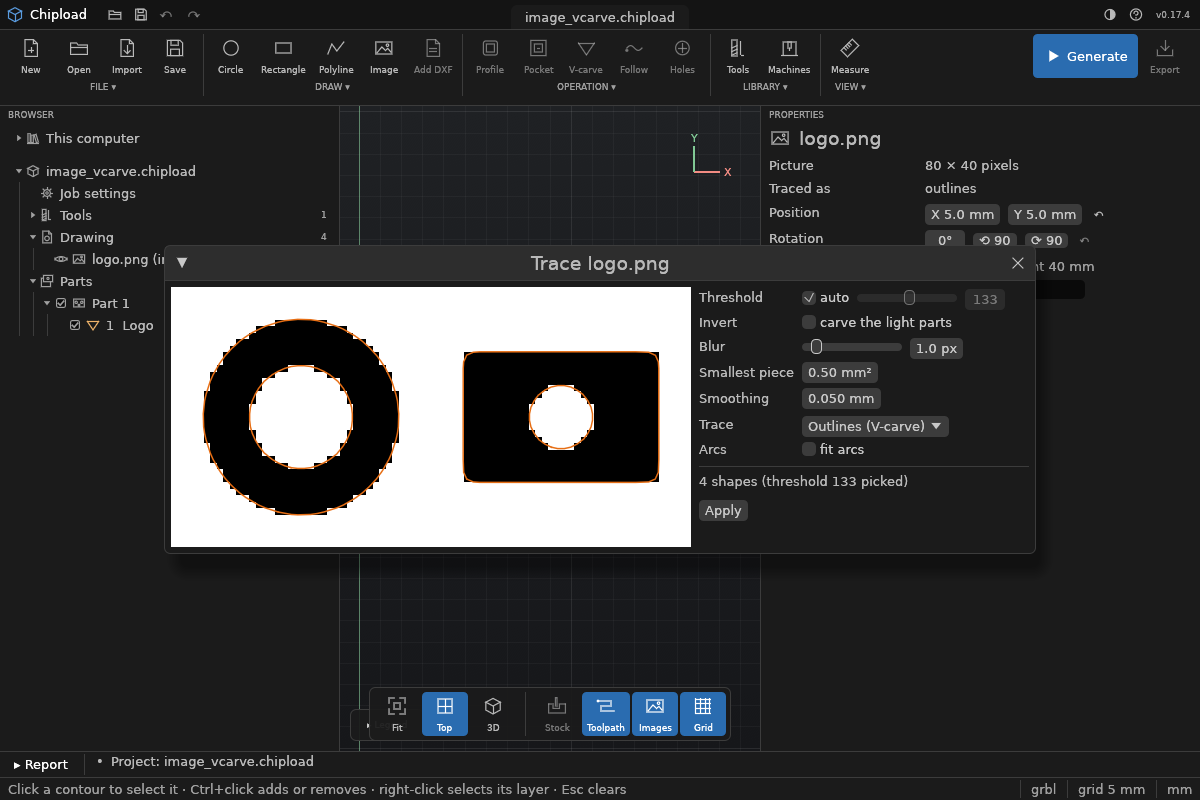
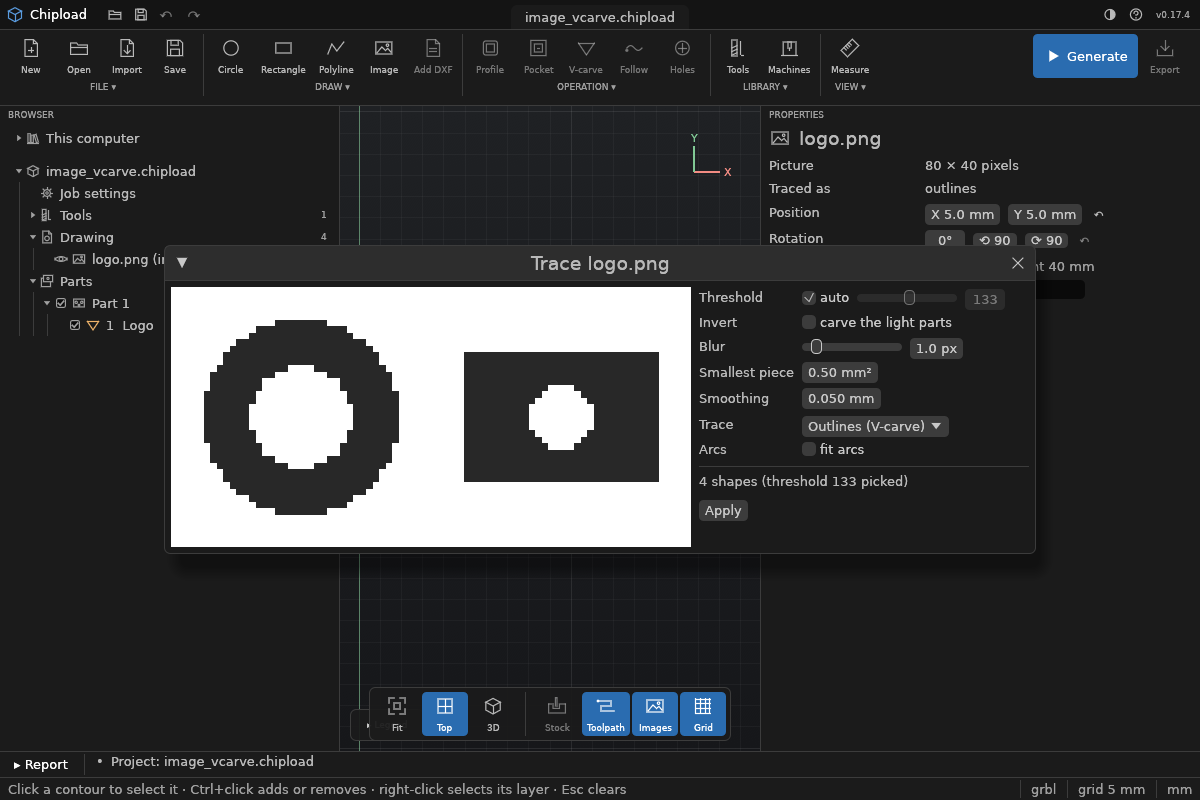
Image window: dark fields, no outlines over them
The orange outlines followed every black part and hid the detail the threshold is set by.
The black parts now show near black on white; centre lines are still drawn, as they are
the result. Guide page and screenshot renewed.

Changed region(s): [[0.1542, 0.375, 0.3392, 0.6562], [0.37, 0.4375, 0.555, 0.625]]

diff --git a/crates/chipload-gui/src/app/images.rs b/crates/chipload-gui/src/app/images.rs
@@ -1,6 +1,6 @@
 // SPDX-License-Identifier: GPL-3.0-or-later
 //! File > Import image… and changing an image (docs/specs/image-trace.md §6): a window with
-//! the picture as black and white, its traced outlines over it, and the settings. The
+//! the picture as black and white (its centre lines over it), and the settings. The
 //! preview is traced in the background as the settings change; *Import* (or *Apply*) puts
 //! the shapes into the project through the pipeline.
 
@@ -114,6 +114,9 @@ impl ImageDialog {
     }
 }
 
+/// How the black parts are shown: near black, so the picture reads as it will be traced.
+const FIELD_GREY: u8 = 40;
+
 /// The black-and-white picture as a texture, scaled down to `MAX_TEXTURE_PX`.
 fn texture_of(p: &Preview) -> ColorImage {
     let bw = &p.black_white;
@@ -124,7 +127,7 @@ fn texture_of(p: &Preview) -> ColorImage {
     for row in 0..th {
         for column in 0..tw {
             let black = bw.black[(row * step).min(h - 1) * w + (column * step).min(w - 1)];
-            gray.push(if black { 0 } else { 255 });
+            gray.push(if black { FIELD_GREY } else { 255 });
         }
     }
     ColorImage::from_gray([tw, th], &gray)
@@ -525,7 +528,8 @@ fn picture_size(dialog: &ImageDialog) -> (u32, u32) {
     (dialog.picture.width, dialog.picture.height)
 }
 
-/// The black-and-white picture with the traced outlines over it.
+/// The black-and-white picture. Outlines are not drawn: they follow the black parts and
+/// would hide the detail the threshold is set by. Centre lines are, as they are the result.
 fn picture_view(ui: &mut egui::Ui, dialog: &ImageDialog) {
     let (w, h) = picture_size(dialog);
     let aspect = f64::from(h) / f64::from(w);
@@ -541,6 +545,9 @@ fn picture_view(ui: &mut egui::Ui, dialog: &ImageDialog) {
     let Some(Ok(preview)) = &dialog.preview else {
         return;
     };
+    if dialog.shown.as_ref().map(|image| image.trace) != Some(ImageTrace::CentreLine) {
+        return;
+    }
     // Loops are in mm from the picture's lower-left corner.
     let width = preview.trace.width;
     let height = width * aspect;
@@ -550,7 +557,7 @@ fn picture_view(ui: &mut egui::Ui, dialog: &ImageDialog) {
             rect.bottom() - (y / height) as f32 * rect.height(),
         )
     };
-    let stroke = Stroke::new(1.5, Color32::from_rgb(230, 110, 20));
+    let stroke = Stroke::new(1.0, Color32::from_rgb(230, 110, 20));
     for path in &preview.trace.paths {
         let mut points: Vec<Pos2> = path.points.iter().map(|&p| to_screen(p)).collect();
         if path.closed

diff --git a/docs/book/src/drawings/images.md b/docs/book/src/drawings/images.md
@@ -94,14 +94,14 @@ pass at the depth you choose, as wide as the bit, whatever the pen did. Select t
 **File > Import image…** picks a picture and opens its window. A project is made first if
 none is open. Without a file dialog (see [Install](../install.md)), *File > Import image from
 path…* takes the picture's path instead.
-- **Left:** the picture as black and white, with the traced outlines over it in orange,
-  updated as you change the settings.
+- **Left:** the picture as black and white, updated as you change the settings: the dark
+  parts are what is traced. With *centre lines*, the lines are drawn over it in orange.
 - **Right:** the conversion settings, and what was traced (with the threshold *auto*
   picked). The size, place and layer are not here: they are the picture's properties.
 - **Import:** puts the shapes into the project and selects the image, so **V-carve** carves
   them (or, for centre lines, **Follow** cuts them). It is one undo step.
 
-![The image window: the picture as black and white with its traced outlines, and the settings](../images/image.png)
+![The image window: the picture as black and white, and the settings](../images/image.png)
 
 **Afterwards:**
 - **Move or resize it:** click it in the [Browser](../window.md#the-browser) and change its

diff --git a/TODO.md b/TODO.md
@@ -97,6 +97,9 @@ it's built (see `CLAUDE.md`).
 
 ## Done
 
+- **A clearer image window** (2026-10-14): the traced parts show near black on white, and
+  outlines are no longer drawn over them, so the detail stays visible while setting the
+  threshold; centre lines are still drawn, as they are the result.
 - **The preview is of the active part** (2026-10-14, docs/specs/active-part-preview.md):
   with several parts, generating, simulating and playback cover the active part; All parts
   on the canvas bar shows every part; export always plans and writes every part.
